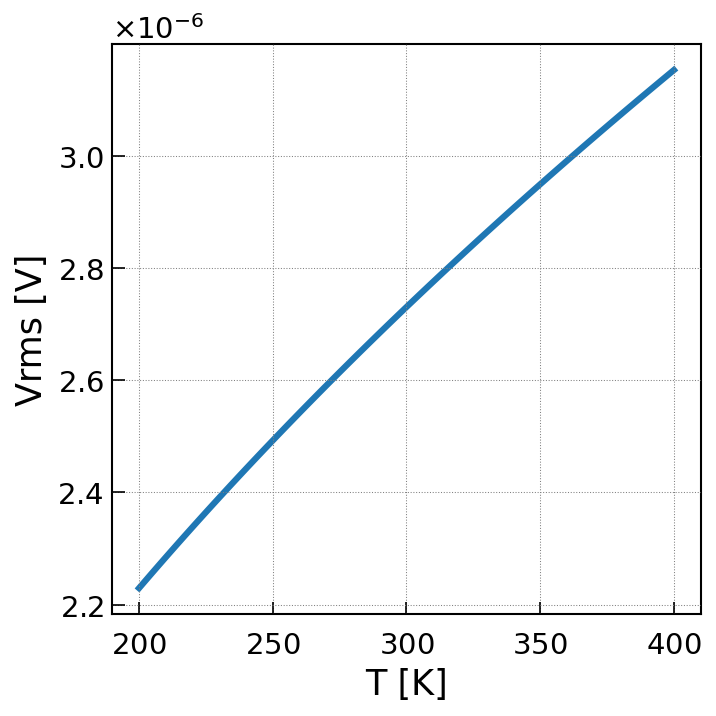
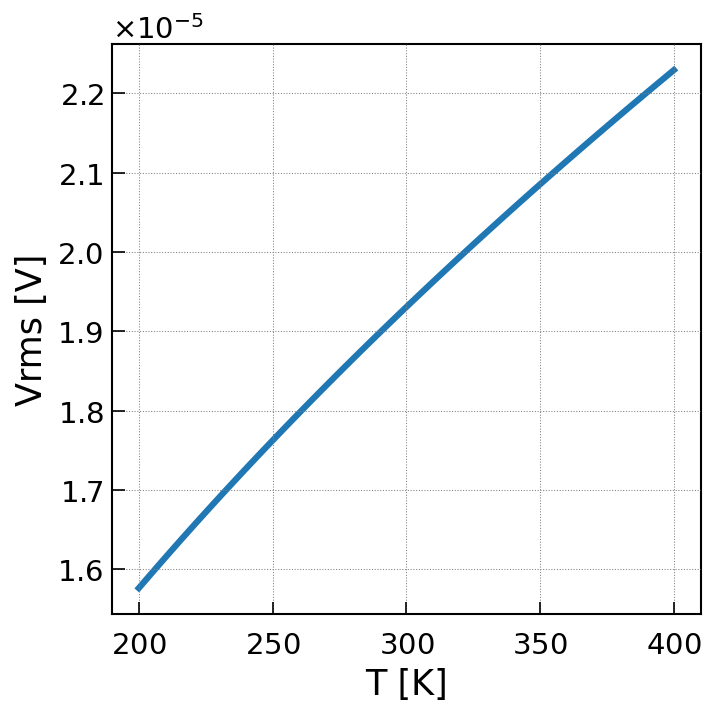
fixed thermal noise calculation

diff --git a/plotThermalNoiseVsTemp.py b/plotThermalNoiseVsTemp.py
@@ -15,7 +15,14 @@ def thermalNoisePower(temp, bandwidth):
 def thermalNoiseVrms50ohm(temp, bandwidth):
     R = 50.0 # Ohms, common impedence
     # Note some definitions remove the factor of 4, though I think this is technically wrong
-    return (4.0 * bandwidth * K_B * temp)**0.5 * units.V
+    return (4* bandwidth * K_B * temp * R)**0.5 * units.V
+
+BW = (500.0 - 50.0) * units.MHz / units.Hz
+T = 250 # Kelvin
+print("Vrms for bandwidth " + str(BW*units.Hz/units.MHz) + " MHz and temp: " + str(T) + " K is: " + str(thermalNoiseVrms50ohm(T,BW)/units.mV) + " mV")
+BW = (800.0 - 50.0) * units.MHz / units.Hz
+T = 300 # Kelvin
+print("Vrms for bandwidth " + str(BW*units.Hz/units.MHz) + " MHz and temp: " + str(T) + " K is: " + str(thermalNoiseVrms50ohm(T,BW)/units.mV) + " mV")
 
 
 temperatures = np.linspace(200,400,100) # Kelvin
